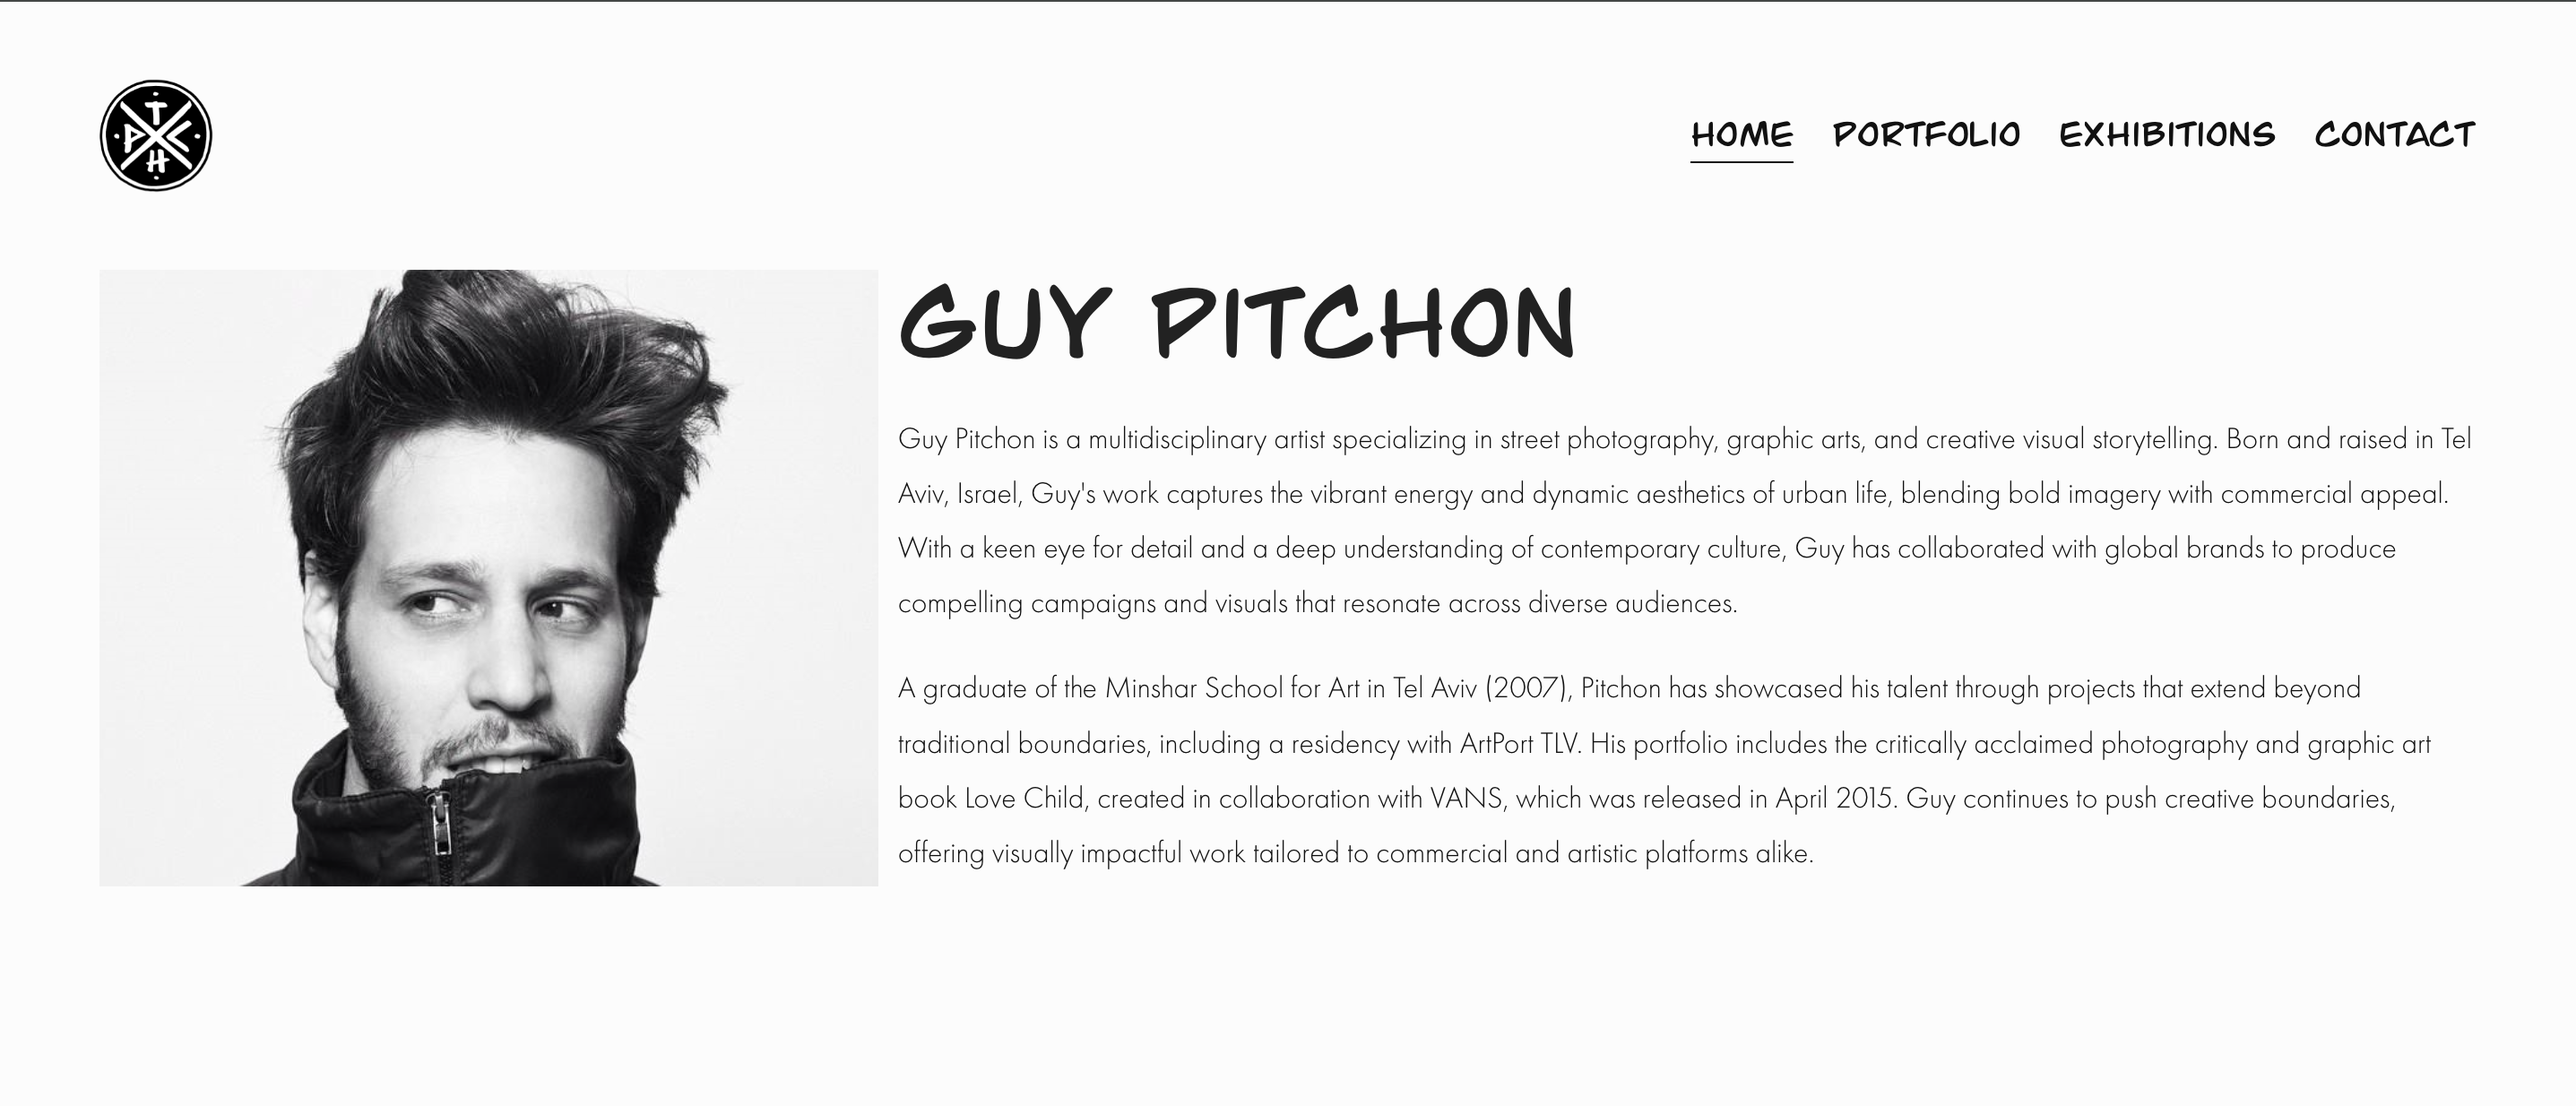
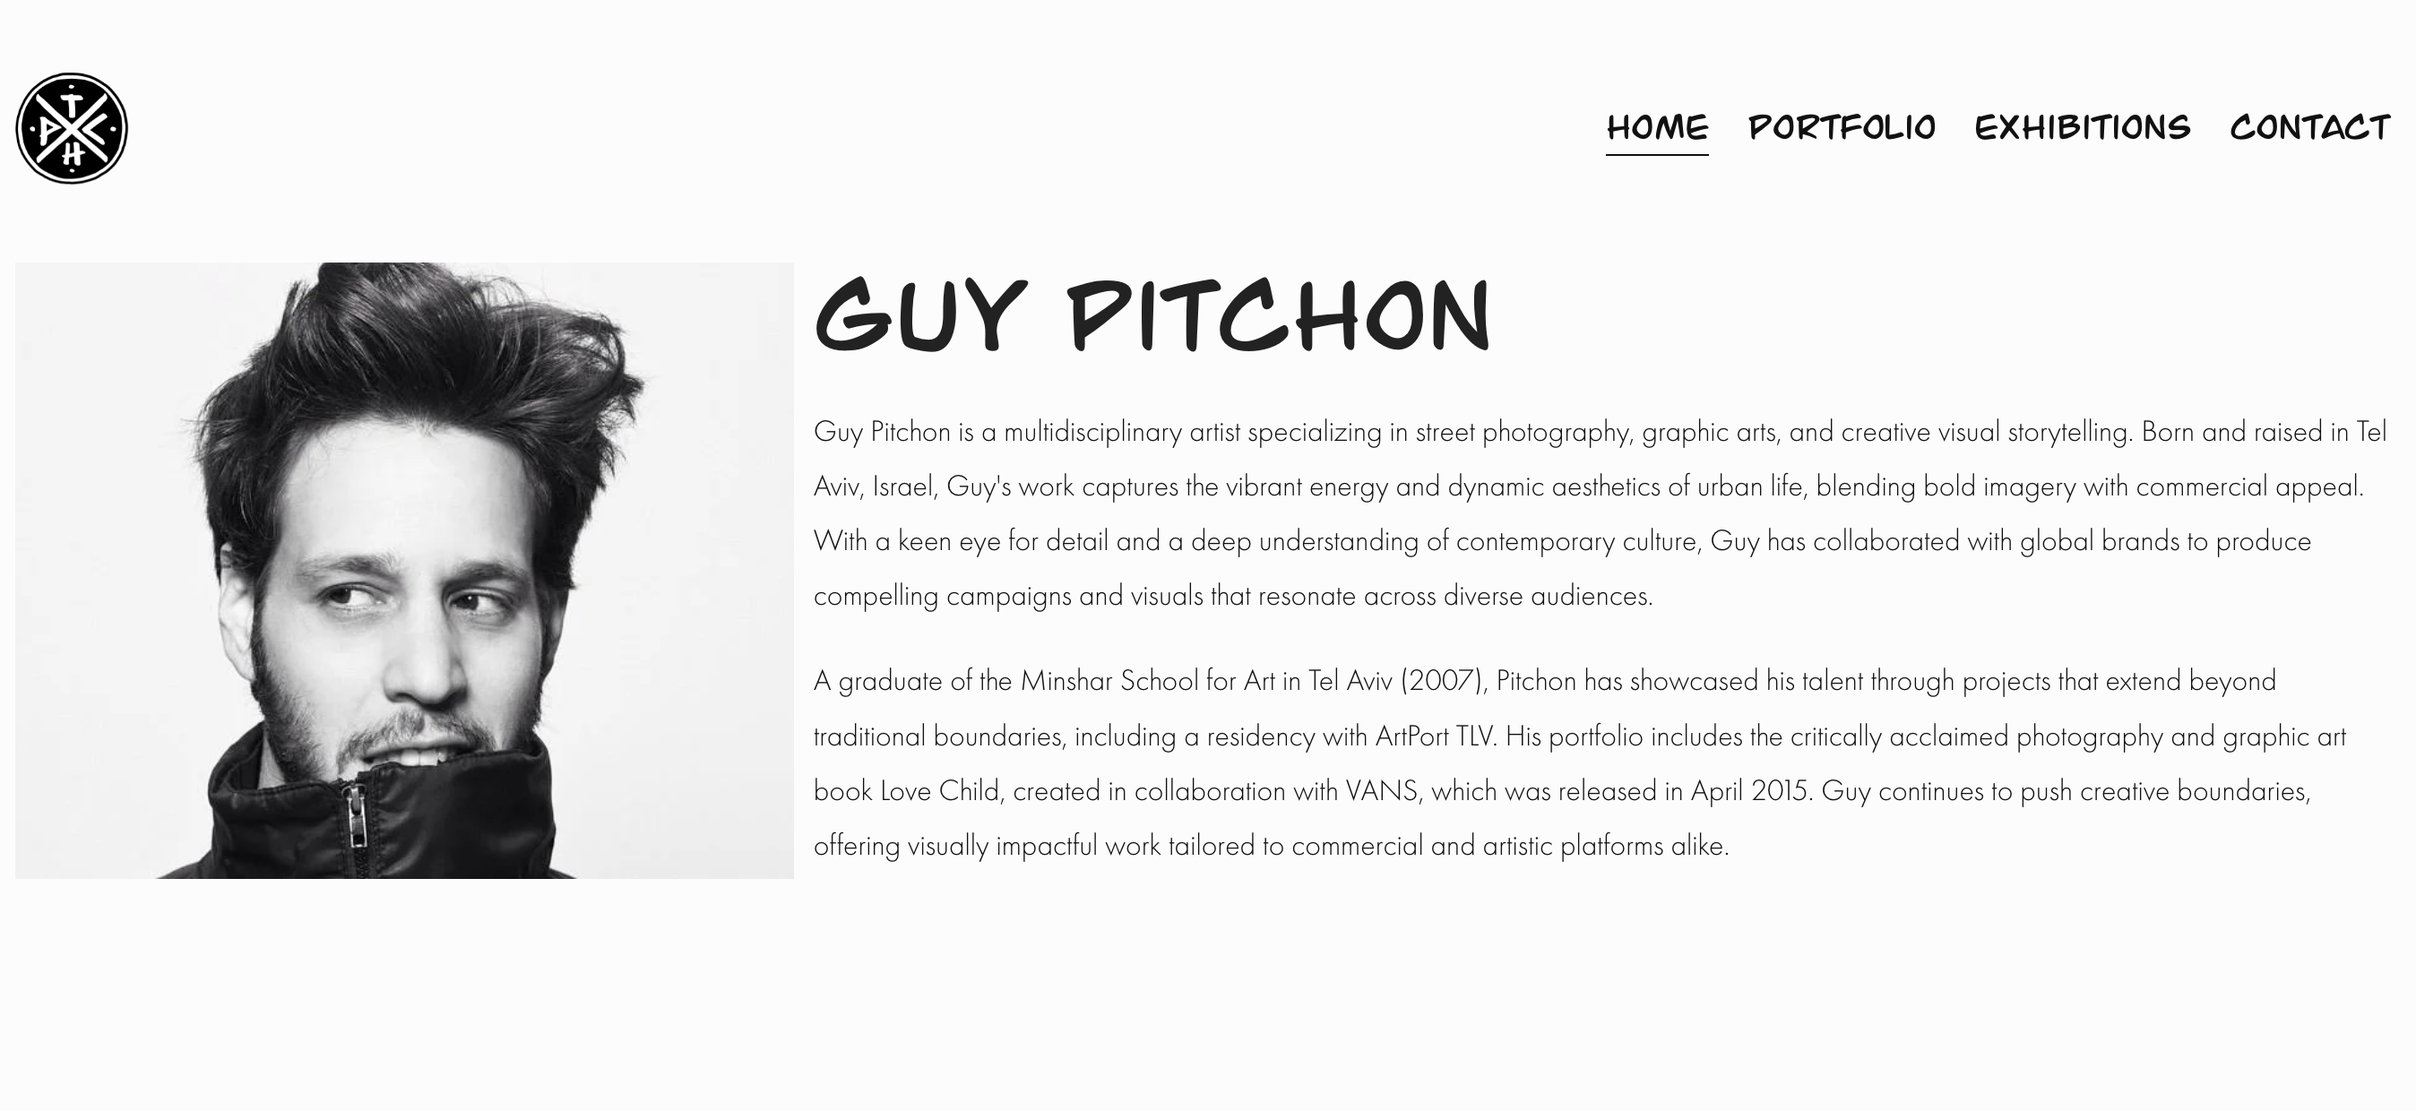
added work

diff --git a/src/constants.js b/src/constants.js
@@ -11,6 +11,9 @@ import LULU_PIC from './assets/pics/lulusinit_pic.png'
 import PTCH from './assets/pics/PTCH.png'
 import OTEF from './assets/pics/OTEF.png'
 import MONK from './assets/pics/MONK.png'
+import LAMAFILM from './assets/pics/lama-films.png'
+import MAGALI from './assets/pics/magali.png'
+import ZEBRA from './assets/pics/zebra-books.png'
 
 
 export const mobileWidth = 769
@@ -148,6 +151,27 @@ export const experienceArr = [
 ]
 
 export const Projects = [
+    {
+    link: 'https://magali-sasson.co.il/',
+    title: 'Holistic Retreats Shop',
+    text: 'Chinese medicine therapist website',
+    tech: ['Shopify', 'css', 'javascript'],
+    pic: MAGALI
+  },
+    {
+    link: 'https://zebra-books.com/',
+    title: 'Online Book Store',
+    text: 'Chinese medicine therapist website',
+    tech: ['Shopify', 'css', 'javascript'],
+    pic: ZEBRA
+  },
+    {
+    link: 'https://www.lama-films.com/',
+    title: 'Company Portfolio Website',
+    text: 'Chinese medicine therapist website',
+    tech: ['Squarespace', 'css', 'javascript'],
+    pic: LAMAFILM
+  },
   {
     link: 'https://monkoffee.com/',
     title: 'Online Coffee Shop',
@@ -189,35 +213,7 @@ export const Projects = [
     text: 'Shopify design for desktop and mobile',
     tech: ['Shopify', 'css', 'javascript'],
     pic: DOZEN_SHOP
-  },
-  // {
-  //   link: 'https://drnaomiheyman.com/',
-  //   title: 'Therapist portfolio',
-  //   text: 'Portfolio app for an expressive therapist',
-  //   tech: ['React', 'css', 'javascript'],
-  //   pic: NAOMI_PIC
-  // },
-  // {
-  //   link: 'https://stephansupermarketapp.herokuapp.com/',
-  //   title: 'Super Market App',
-  //   text: 'Final project from my studies at Jhon bryce Academy. Full E-commerce website of a Vegan Supermarket.',
-  //   tech: ['React', 'Node.js', 'SQL', 'PostgreSQL', 'Heroku'],
-  //   pic: SUPER_PIC
-  // },
-  // {
-  //   link: 'https://stark-basin-64884.herokuapp.com/',
-  //   title: 'Vacations App',
-  //   text: 'Second project from my studies at Jhon bryce Academy emulating a vacation App where you can search & follow vacations. you can login to Admin to upload new vacations using admin username: adminadmin, password: admin1234.',
-  //   tech: ['React', 'Node.js', 'SQL', 'PostgreSQL', 'Heroku'],
-  //   pic: VACATION_PIC
-  // },
-  // {
-  //   link: 'https://brave-sammet-525389.netlify.app/',
-  //   title: 'MPC Disco Sequencer',
-  //   text: 'Virtual loop machine contaning disco sounds with option to record a session',
-  //   tech: ['React', 'Styled-Components', 'Netlify'],
-  //   pic: DISCO_PIC
-  // }
+  },  
 ]
 
 export const Articles = [

diff --git a/src/components/Contact/Contact.js b/src/components/Contact/Contact.js
@@ -8,7 +8,7 @@ import Footer from '../Footer';
 
 const Contact = (props) => {
   const { linkArr } = props
-  const contactText = "Drop an email and i'll get back to you"
+  const contactText = "Drop an email or WhatsApp and i'll get back to you"
   return (
     <div className='Contact' ref={linkArr[2].ref}>
       <div
@@ -20,8 +20,13 @@ const Contact = (props) => {
         {/*<h1 className='get-in-t'>Get In Touch</h1>*/}
         <div >
           <p>{contactText}</p>
-          <MyBtn text='Email' link={socialsArr[3].href} />
+          <div className='contact-btns'>
+ <MyBtn text='Email' link={socialsArr[3].href} />
+           <MyBtn text='WhatsApp' link={"https://wa.me/+972525677479"} />
+          </div>
+         
         </div>
+       
       </div>
       <div>
         <Footer />

diff --git a/src/components/Contact/Contact.scss b/src/components/Contact/Contact.scss
@@ -19,6 +19,15 @@
       }
     }
   }
+  .contact-btns{
+    display: flex;
+    justify-content: center;
+    gap: 10px;
+    margin-top: 20px;
+    .resume-btn {
+    margin: 0;
+}
+  }
   .title {
     justify-content: center;
     margin: 0;
